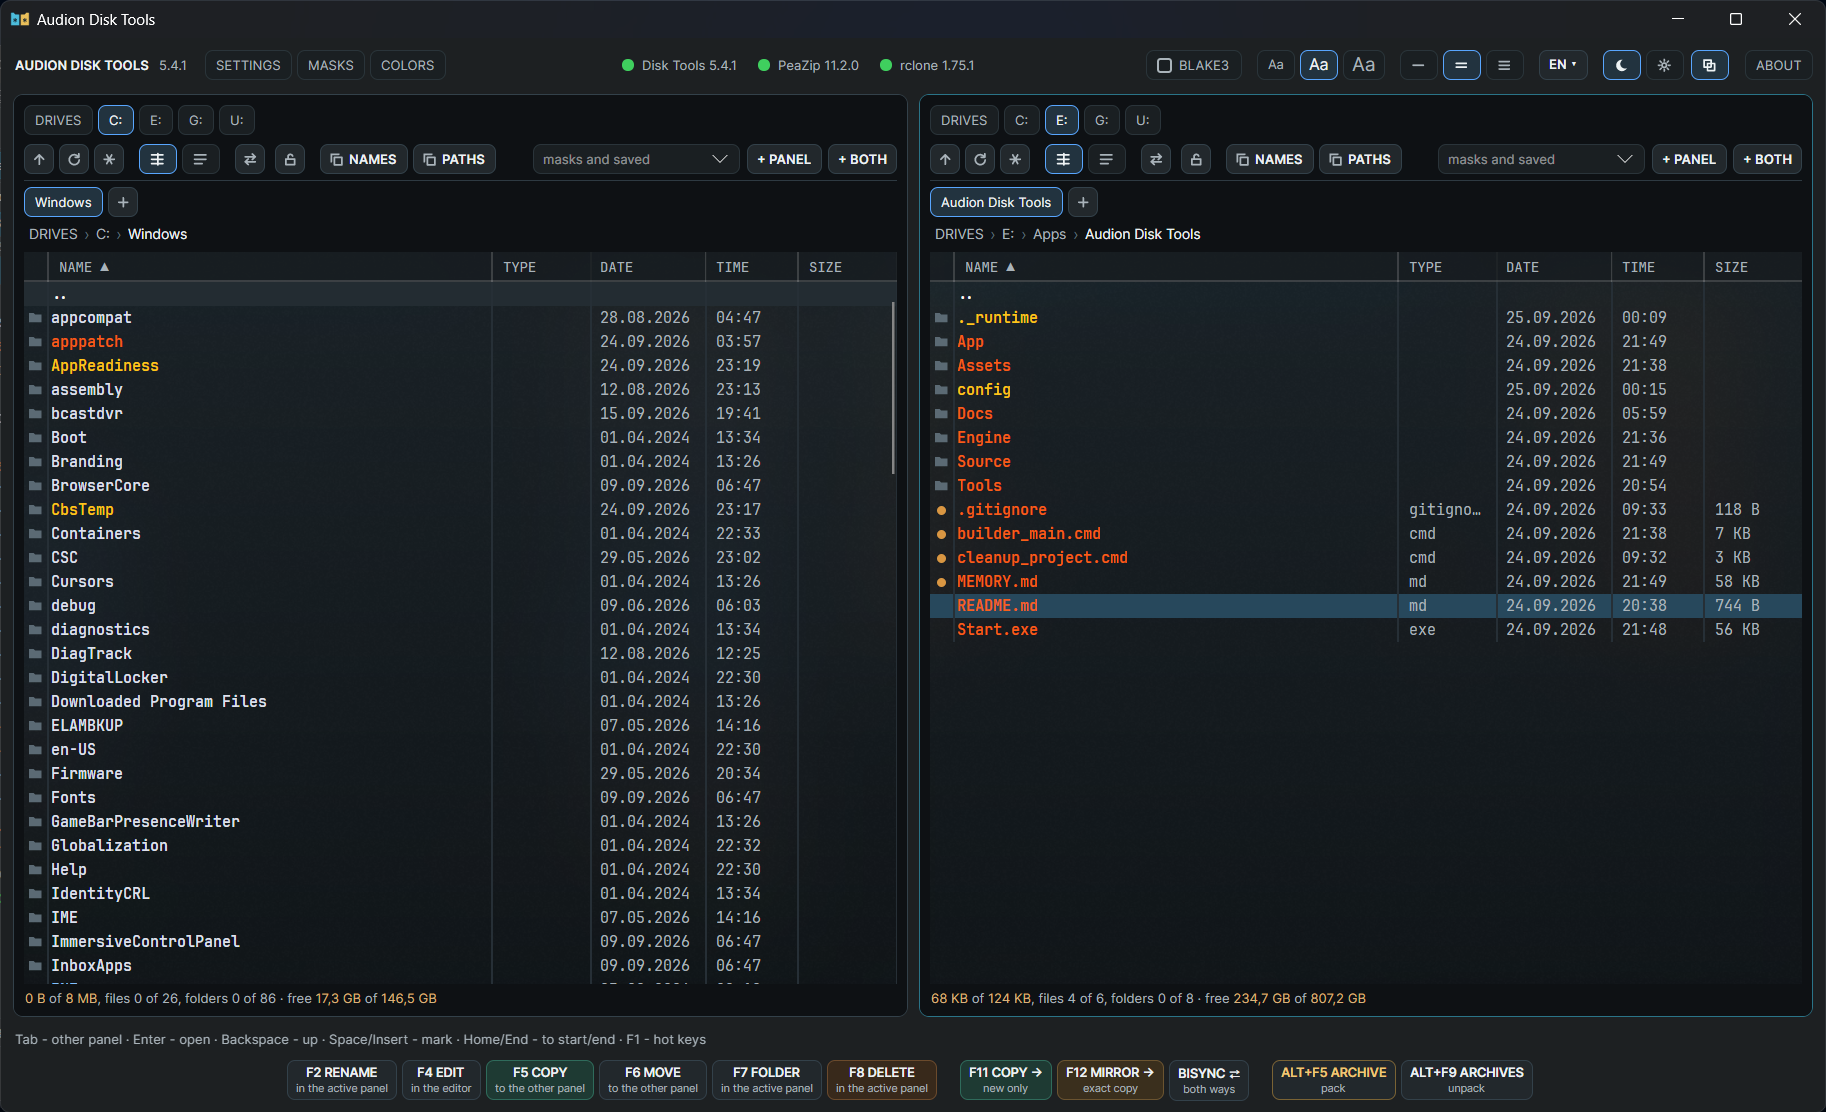
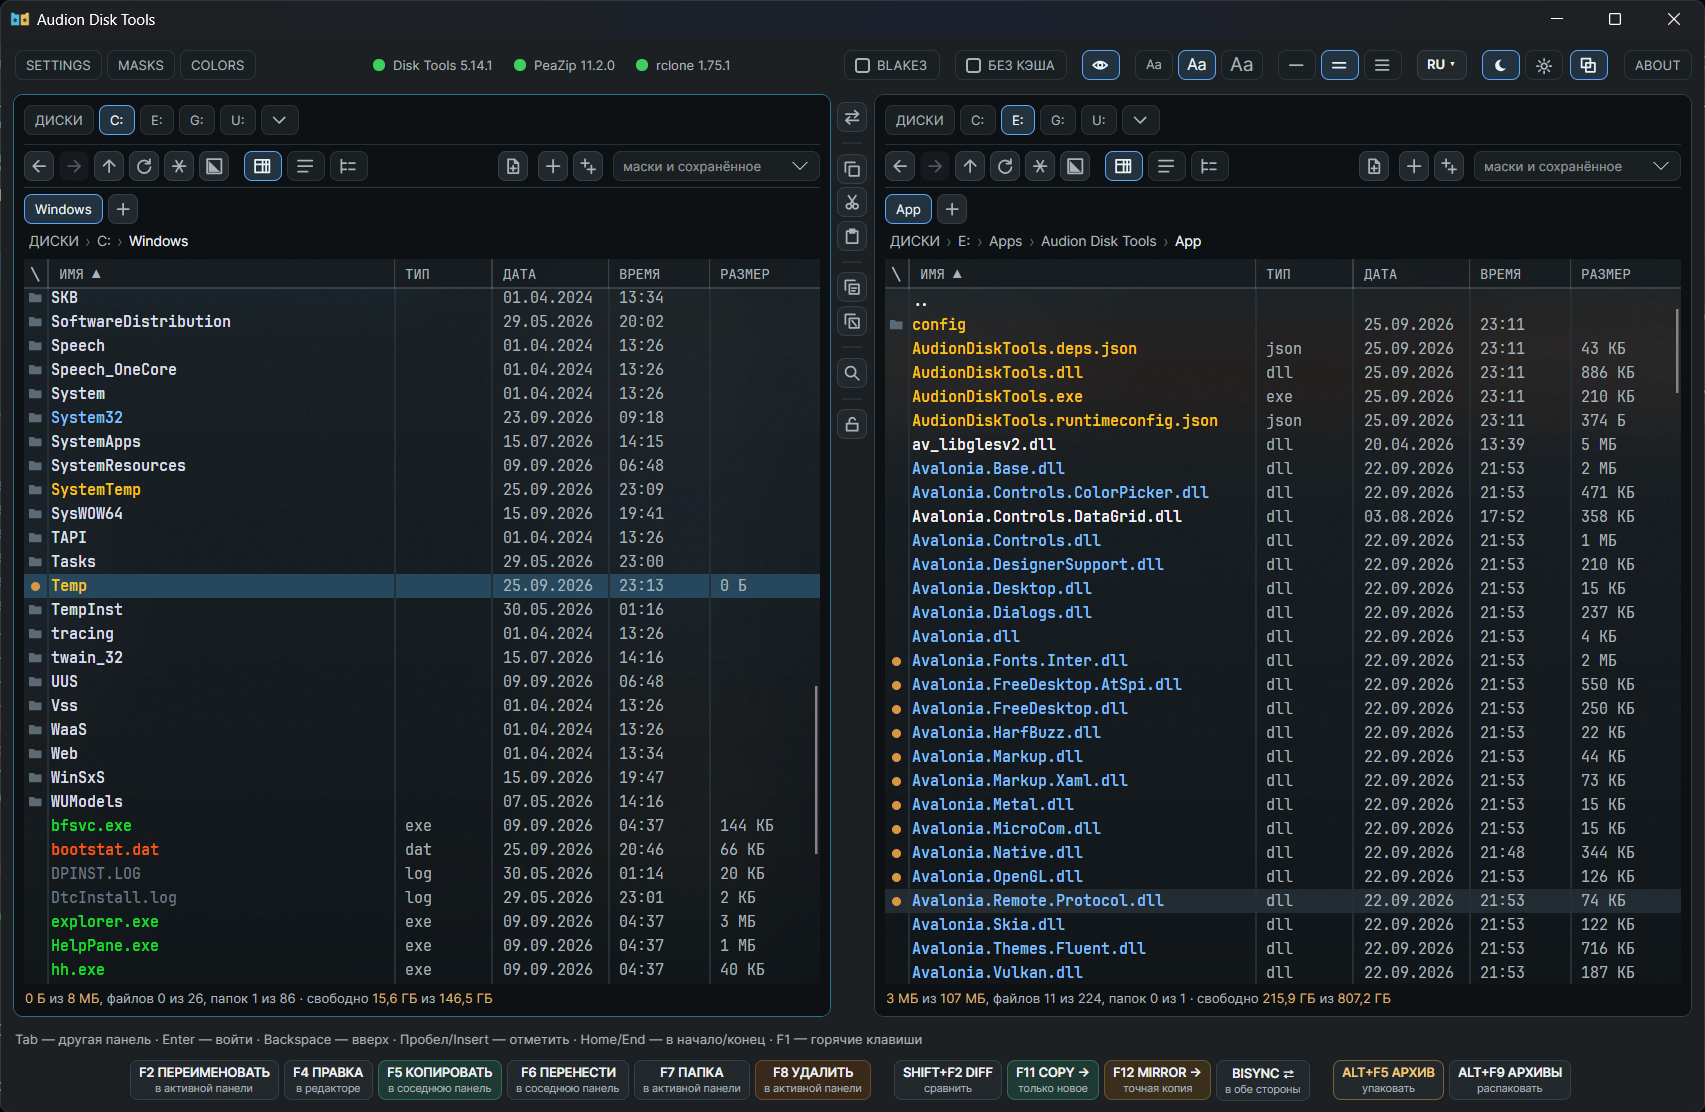
release: Audion Disk Tools 5.14.1

diff --git a/Docs/USER_GUIDE_EN.md b/Docs/USER_GUIDE_EN.md
@@ -16,7 +16,7 @@
 
 ## The window
 
-At the top — the sections (SETTINGS, MASKS, COLORS), in the middle — the program and its tools with their versions, on the right — the BLAKE3 and NO CACHE boxes, the view: font Aa, row density, language, theme, ABOUT.
+At the top — everything that acts on both panels and the whole program: the sections (SETTINGS, MASKS, COLORS), in the middle — the program and its tools with their versions, on the right — the BLAKE3 and NO CACHE boxes, the eye (hidden and system files, Ctrl+H), font Aa, row density, language, theme, ABOUT.
 
 Below — two panels. The active one has a sea-blue frame: it is the source, the other one the target. At the bottom — the status line with the progress bar and STOP, and the operation buttons under it.
 
@@ -25,9 +25,11 @@ A section opens in place of the panels and closes with the same button, the ✕ 
 ## A panel
 
 - **Three rows above the list** that never trade places: drives, the panel controls, tabs. Only the tabs wrap; the window and the splitter stop before buttons could overlap.
-- **Drives** — the first row: DRIVES opens the drive list, a click on a drive returns to the last folder opened on it, as in TC.
-- **Controls** — the second row: up, reread, mark by mask, Detailed / Simple (the name column alone), ⇄ swap the panels (Ctrl+U), Unblock (takes the "downloaded from the internet" mark off the selected files), NAMES and PATHS (to the clipboard); on the right masks and saved, + PANEL, + BOTH.
-- **Tabs**: `+` or Ctrl+T — a new one with the same folder; double click, Ctrl+W or the middle button — close; right button — pin (a pinned tab stays on the left, does not close, and leaving its folder opens a new tab); drag to change the order. In SETTINGS · TABS: a tab width limit, a row that wraps or scrolls with the wheel, and the right button — pin at once or a pin / rename menu (the tab caption changes, not the folder).
+- **Drives** — the first row: DRIVES opens the drive list, a click on a drive returns to the last folder opened on it, as in TC; the chevron at the end of the row lists every drive with its label and free space (Alt+F1 — the left panel, Alt+F2 — the right), the drive letter picks it at once.
+- **Controls** — the second row: only what changes the view of this panel: up, reread, mark by mask, Detailed (a table) / Simple (the name column alone), on the right by the masks list - a new file in this panel's folder (Shift+F4 - in the active one), save this panel (a plus) / both panels (two pluses); on the right masks and saved.
+- **The column between the panels** — what is done with files, like the vertical bar of TC; it works on the active panel: ⇄ swap the panels (Ctrl+U) · copy, cut, paste through the Windows clipboard (Ctrl+C, Ctrl+X, Ctrl+V — to and from Explorer too) · names and paths to the clipboard (Ctrl+Shift+N, Ctrl+Shift+P) · find in the panel (Ctrl+F) · unblock downloaded files. What an icon does is in its tooltip. The splitter drags by the free space of the column.
+- **Tabs**: `+` or Ctrl+T — a new one with the same folder; double click, Ctrl+W or the middle button — close; right button — pin (a pinned tab stays on the left, does not close, and leaving its folder opens a new tab); Shift + right button — rename (the tab caption changes, not the folder); drag to change the order. In SETTINGS · TABS: a tab width limit, a row that wraps or scrolls with the wheel, and the right button — pin at once or a pin / rename menu.
+- **`\` over the icon column**, left of "NAME" — to the root of this tab's drive.
 - **Breadcrumbs** of the path — a click on any part goes there.
 - **Columns** NAME, TYPE, DATE, TIME, SIZE; a click on a header sorts, folders always on top.
 - **Sizes** short (KB, MB, GB) or exact in bytes — SETTINGS · SIZES. Sizes of marked folders are counted in the background.
@@ -41,12 +43,22 @@ A section opens in place of the panels and closes with the same button, the ✕ 
 | Ctrl+Tab, Ctrl+Shift+Tab | next and previous tab |
 | Enter, double click | open a folder or a file; on ".." — up |
 | Backspace | up, the cursor lands on the folder you left |
+| Alt+← / Alt+→ | back and forward through the folders of this tab (the arrows of the control row, the mouse side buttons) |
+| Ctrl+B | flat view: every file of every subfolder in one list, with its path from this folder; with a mask filter - "every .pdf of this tree"; F5 and F6 put the files into the target with their subfolders. COPY, MIRROR, BISYNC, packing and comparing work from the usual view. Leaving the folder turns the view off |
 | Space, Insert | mark and step down; a folder gets its size counted |
 | Shift+Space | the exact size of the row in bytes — in the panel status line, until the next action |
 | Home / ← , End / → | to the start, to the end of the list |
 | Ctrl+A | mark all or clear all |
+| * (numeric keypad) | invert the marks of the files (the icon - a square filled along its diagonal); folders stay, as in TC |
+| Alt+Shift+Enter | sizes of every folder in the list |
 | Ctrl+R | reread the panel |
 | Ctrl+U | swap the panels (the ⇄ button of a panel) |
+| Alt+F1 / Alt+F2 | the drive list of the left / right panel (the chevron in the drive row); the drive letter goes straight there |
+| Ctrl+H | hidden and system files: show or hide, for both panels (the eye at the top) |
+| Shift+F2 | compare the panels (the DIFF button below): both get marked with what the other side lacks and what is newer or of another size; common folders by their content. With something marked (in either panel) only the marked names are compared, and the marks stay on those that differ. Nothing is copied |
+| Ctrl+F | find in the panel: only the names with this text stay in the list; Esc — off, Enter or ↓ — to the list |
+| Ctrl+C / Ctrl+X / Ctrl+V | copy / cut the marked rows to the Windows clipboard, paste from it into the active panel's folder — to and from Explorer too; pasting runs in the queue, like F5 and F6 |
+| Shift+F4 | a new file in the active panel: a name and an extension (chips; a name with a dot keeps its own), straight into the editor ("OPEN IN EDITOR"); the page-with-plus icon above each panel does the same for that panel |
 | Menu key, Shift+F10, right button | Explorer menu |
 | F1 | the hot key memo; the user guide and the documentation folder are in the ABOUT menu |
 | F2 | rename |
@@ -58,7 +70,7 @@ A section opens in place of the panels and closes with the same button, the ✕ 
 | Shift+Del | delete past the Recycle Bin |
 | F11 / F12 | COPY / MIRROR |
 | Alt+F5 / Alt+F9 | pack / unpack |
-| Ctrl+Shift+N / Ctrl+Shift+P, the NAMES / PATHS buttons of the panel | names or full paths of the marked rows to the clipboard, one per line |
+| Ctrl+Shift+N / Ctrl+Shift+P, the "names" / "paths" icons in the column between the panels | names or full paths of the marked rows to the clipboard, one per line |
 | Esc | during an operation — STOP; otherwise remove the filter or close the section |
 
 Rows can also be marked with a frame: press on an empty spot and drag.
@@ -73,7 +85,9 @@ MIRROR and BISYNC do not run under a filter: a mirror is a full copy, masks are 
 
 ## Saved panels
 
-**+ PANEL** remembers the folder and the marks of this panel, **+ BOTH** — of both. Choosing it in the list brings everything back. The star pins a line at the top of the list.
+The **"save the panel"** icon (a thick plus) remembers the panel with all its tabs: folders, marks, filters, pins. **"Save both"** (two overlapping pluses) — both panels the same way. A small window opens first: a name (offered, can be changed) and where to — **TO THE LIST** (Enter) or **TO A FILE…** (.json anywhere). Choosing it in the list brings everything back; a tab whose folder is gone is skipped and named in the status line. The star pins a line at the top of the list, **✎** of a saved panel renames it, writes it to a file or removes it from the list.
+
+**SETTINGS · MASKS AND SAVED**: **EXPORT…** — all of your own in one file (mask sets, saved panels, pins, typed masks and extension sets); **IMPORT…** — add from such a file or from a panel saved to a file. Import only adds: what is here stays as it is.
 
 ## Copying and sync
 
@@ -115,6 +129,7 @@ TAR inside GZ, ZSTD, XZ, BZ2 opens straight through. Integrity is checked while 
 
 - **Sizes** — short or in bytes.
 - **Engine** — robocopy or rclone.
+- **Copy times** — as the source (the default, as in TC) or the time of copying, as cp without -p on Linux. Attributes are carried either way. It is for F5 and Ctrl+V; a move (F6), COPY, MIRROR and BISYNC always keep the times.
 - **Archiver** — where the PeaZip engines are: `7z`, `zstd`, `lz4`.
 - **Tools** — the program, PeaZip and rclone with versions and dots; UPDATE downloads the latest version of a tool into `Tools\`, for the program it opens the release page. CHECK NOW asks GitHub without waiting six hours.
 - **Program font and panel font** — family and the size of the middle Aa; the smaller and larger steps follow from it.

diff --git a/README.md b/README.md
@@ -10,13 +10,12 @@
 
 **Version 5.14.1** · 2026-09-25 · 98.3 MB
 
-- [Direct download](https://dl.audion.dev/disk-tools/5.14.1/Audion_Disk_Tools_v5.14.1.zip) — unmetered, no rate limits
+- [Direct download](https://audion.dev/get/disk-tools/5.14.1/Audion_Disk_Tools_v5.14.1_Full.zip) — unmetered, no rate limits
 - [Project page](https://audion.dev/downloads/disk-tools) — every version and how to install
-- [GitHub release](https://github.com/Tensionix/disk-tools/releases/tag/v5.14.1)
 
-<p align="center"><img src="docs/screenshot.png" alt="The program window" width="560"></p>
+<p align="center"><img src="Docs/screenshot.png" alt="The program window" width="560"></p>
 
-`SHA-256: f49add516b93b090e58f0be6baa16b130655aa48f75ce9359864748fa0aef29d`
+`SHA-256: c117c74634ea0018e39a883287ffc8b50725ecef7d2a6ffbf4a14b764e29fe51`
 
 ---
 
@@ -26,7 +25,7 @@ An **Audion** tool, published by [Tensionix](https://github.com/Tensionix).
 
 A two-panel file manager for Windows: tabs and drives as in Total Commander, mask filters, saved panels, robocopy copying with BLAKE3 verification, sync, packing and unpacking — in one window, with nothing to install.
 
-Version 5.6.3. Built on .NET 10 and Avalonia; everything it needs lives in the project folder: the program with its own runtime, the PeaZip archiver, rclone, the editors Microsoft Edit and micro and a portable Windows Terminal (all MIT).
+Version 5.8.1. Built on .NET 10 and Avalonia; everything it needs lives in the project folder: the program with its own runtime, the PeaZip archiver, rclone, the editors Microsoft Edit and micro and a portable Windows Terminal (all MIT).
 
 ## Start
 

diff --git a/Docs/README_RU.md b/Docs/README_RU.md
@@ -2,7 +2,7 @@
 
 Двухпанельный файловый менеджер для Windows: вкладки и диски как в Total Commander, фильтр масками, сохранённые панели, копирование через robocopy с проверкой BLAKE3, синхронизация, архивация и распаковка — в одном окне, без установки.
 
-Версия 5.6.3. Программа на .NET 10 и Avalonia; всё нужное лежит в папке проекта: сама программа со своей средой выполнения, архиватор PeaZip, rclone, редакторы Microsoft Edit и micro и портативный Windows Terminal (все под MIT).
+Версия 5.8.1. Программа на .NET 10 и Avalonia; всё нужное лежит в папке проекта: сама программа со своей средой выполнения, архиватор PeaZip, rclone, редакторы Microsoft Edit и micro и портативный Windows Terminal (все под MIT).
 
 ## Запуск
 

diff --git a/Docs/README_EN.md b/Docs/README_EN.md
@@ -2,7 +2,7 @@
 
 A two-panel file manager for Windows: tabs and drives as in Total Commander, mask filters, saved panels, robocopy copying with BLAKE3 verification, sync, packing and unpacking — in one window, with nothing to install.
 
-Version 5.6.3. Built on .NET 10 and Avalonia; everything it needs lives in the project folder: the program with its own runtime, the PeaZip archiver, rclone, the editors Microsoft Edit and micro and a portable Windows Terminal (all MIT).
+Version 5.8.1. Built on .NET 10 and Avalonia; everything it needs lives in the project folder: the program with its own runtime, the PeaZip archiver, rclone, the editors Microsoft Edit and micro and a portable Windows Terminal (all MIT).
 
 ## Start
 

diff --git a/licenses/LICENSE_SCAN_REPORT.md b/licenses/LICENSE_SCAN_REPORT.md
@@ -1,10 +1,10 @@
 # Audion Build Licenses Scan Report
 
 - Project: **Audion Disk Tools** (`audion-disk-tools`)
-- Run: `20260924T192921Z_audion-disk-tools_7b1c0513`
-- Project root: `E:\Release Plus\Audion Disk Tools`
-- Scan root: `E:\Release Plus\Audion Disk Tools`
-- Output: `E:\Release Plus\Audion Disk Tools\licenses`
+- Run: `20260925T175034Z_audion-disk-tools_2fda221d`
+- Project root: `E:\Release\Audion Disk Tools`
+- Scan root: `E:\Release\Audion Disk Tools`
+- Output: `E:\Release\Audion Disk Tools\licenses`
 - Status: **PASS**
 - Components: 7
 - Bundled: 7
